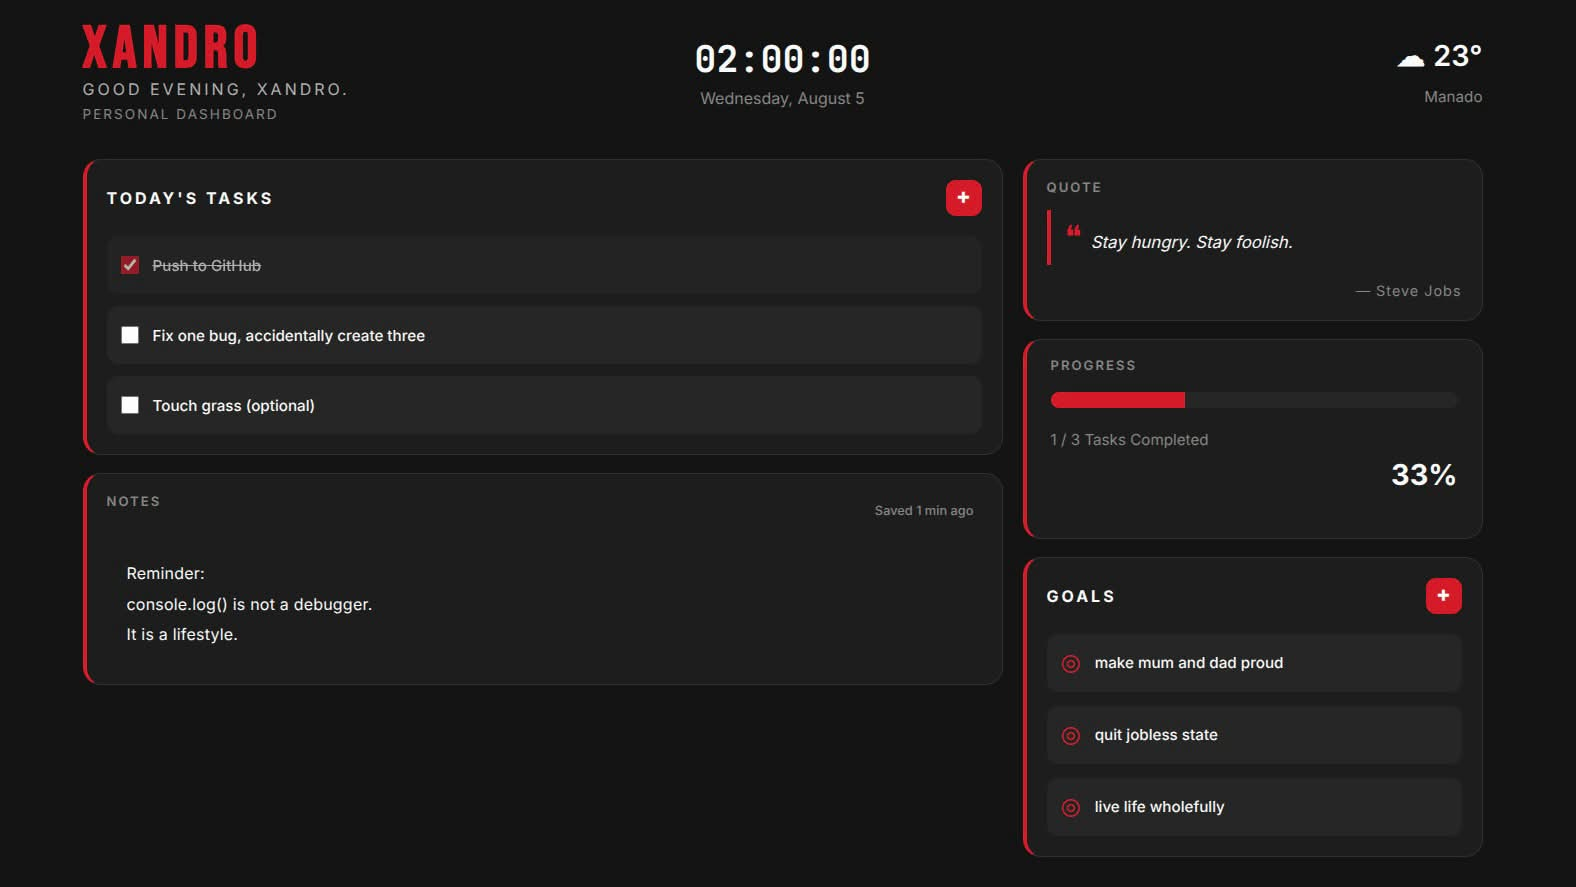
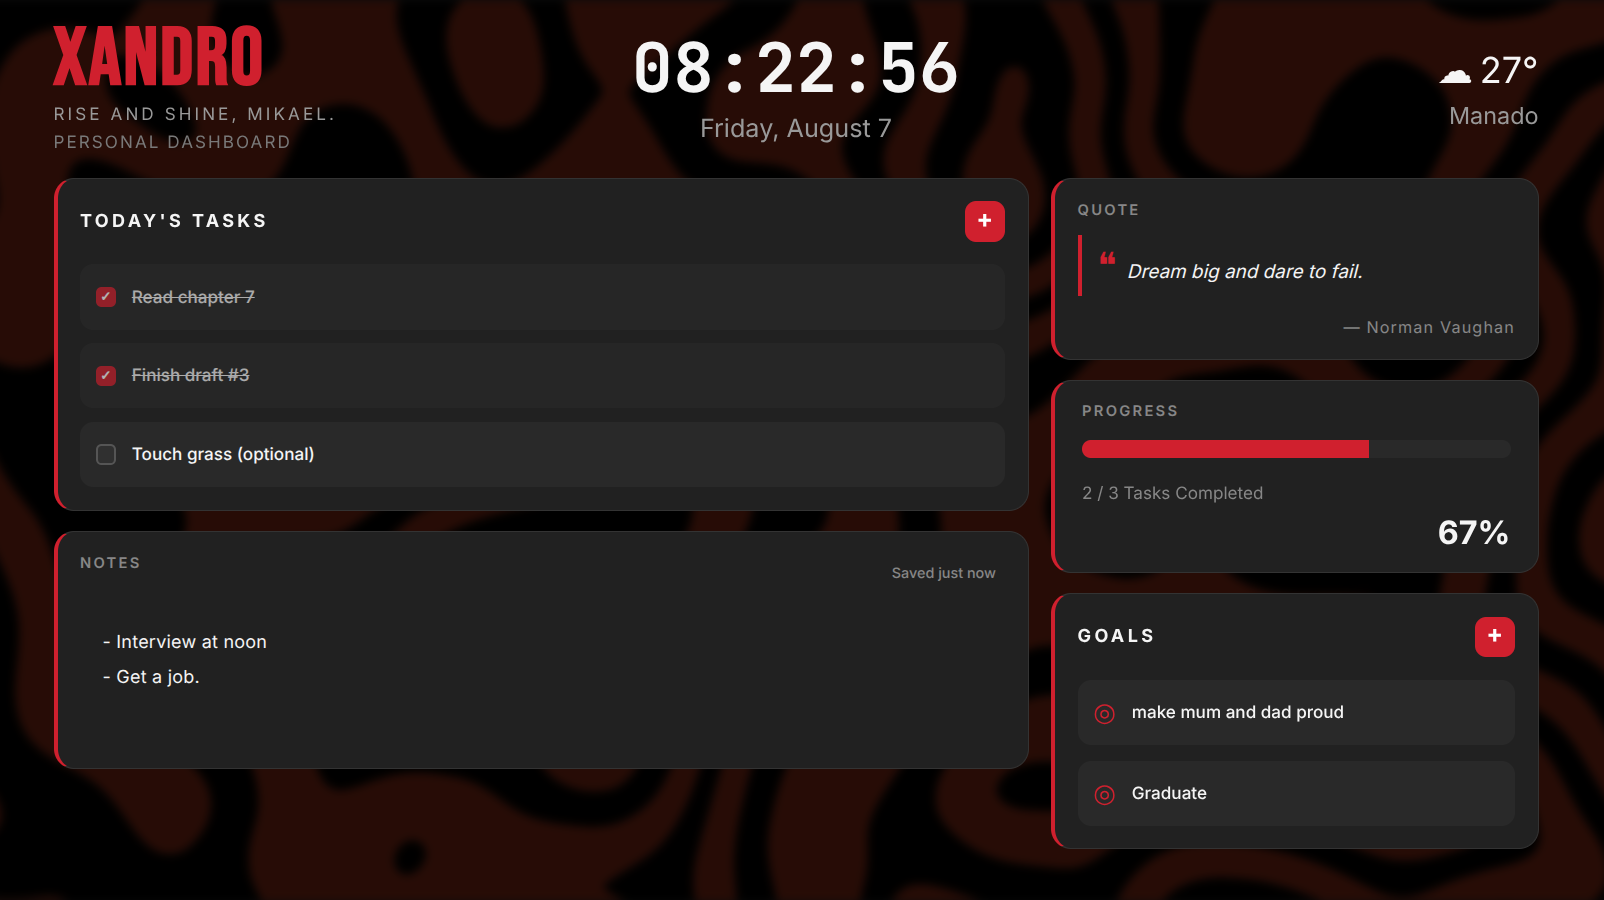
Slight adjustment

diff --git a/README.md b/README.md
@@ -28,6 +28,8 @@ This portfolio reflects my passion for creating clean, intuitive, and user-focus
 
 One of the highlights of this portfolio is **XANDRO**, a custom-built personal dashboard inspired by modern operating systems.
 
+<img src="assets/xandro-preview.png" alt="Xandro Preview" width="900"/>
+
 It features a cinematic boot sequence, dynamic greeting system, weather integration, task and goal management, notes, progress tracking, and a live animated background—all built using **HTML, CSS, and Vanilla JavaScript**.
 
 ---
@@ -40,7 +42,7 @@ It features a cinematic boot sequence, dynamic greeting system, weather integrat
 
 ---
 
-## Visit
+## ⚜ Visit 
 
 **https://mikaelkalesaran.com**
 
